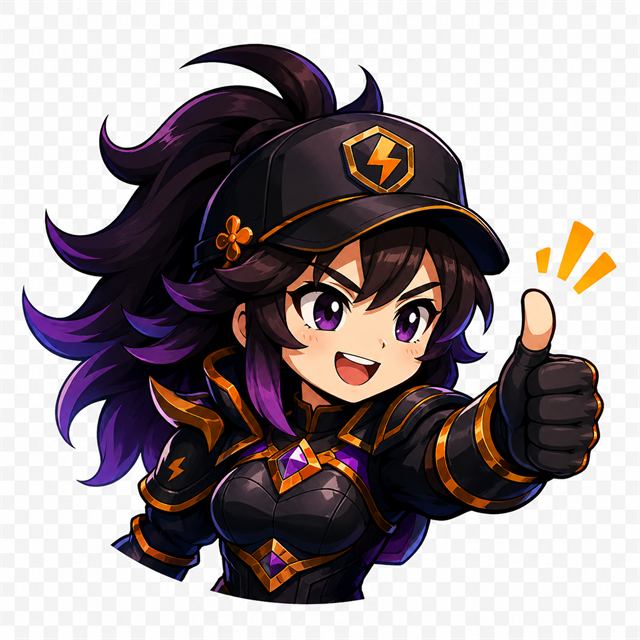
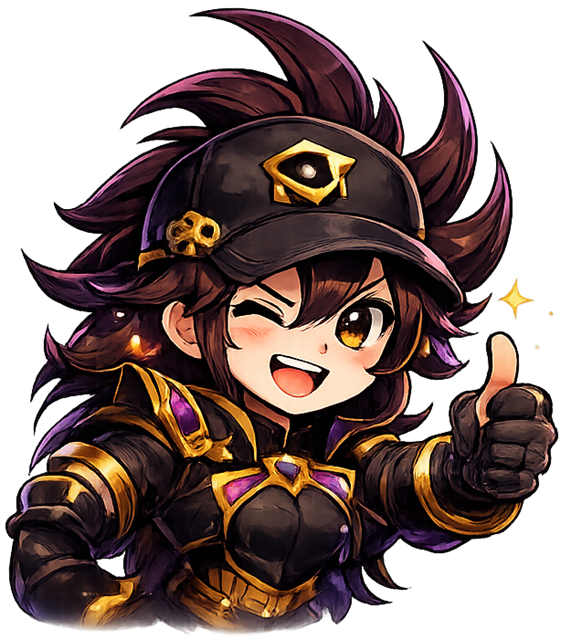
Atualiza personagens de reação da batalha (Acertou / erro atenção).

diff --git a/app/js/ui/battleArena.js b/app/js/ui/battleArena.js
@@ -416,8 +416,8 @@ function showCritical(stage) {
 
 /** Personagens de reação: joinha = acerto, dedo em riste = erro */
 const BATTLE_REACT = Object.freeze({
-  correct: 'assets/ui/battle-react-correct.png?v=1',
-  wrong: 'assets/ui/battle-react-wrong.png?v=1',
+  correct: 'assets/ui/battle-react-correct.png?v=2',
+  wrong: 'assets/ui/battle-react-wrong.png?v=2',
 });
 
 function renderBattleFeedback(result, explanation, confidence) {

diff --git a/app/index.html b/app/index.html
@@ -64,6 +64,6 @@
     </nav>
   </div>
 
-  <script type="module" src="js/app.js?v=78"></script>
+  <script type="module" src="js/app.js?v=79"></script>
 </body>
 </html>

diff --git a/app/js/app.js b/app/js/app.js
@@ -10,7 +10,7 @@ import { renderOnboarding } from './ui/onboarding.js?v=68';
 import { renderHome } from './ui/home.js?v=71';
 import { renderForge } from './ui/forge.js?v=71';
 import { renderWorldMap } from './ui/worldMap.js?v=73';
-import { renderBattle } from './ui/battleArena.js?v=72';
+import { renderBattle } from './ui/battleArena.js?v=73';
 import { renderGrimorio } from './ui/grimorio.js?v=68';
 import { renderPerformance } from './ui/performance.js?v=73';
 import { renderExpedition } from './ui/expedition.js?v=72';